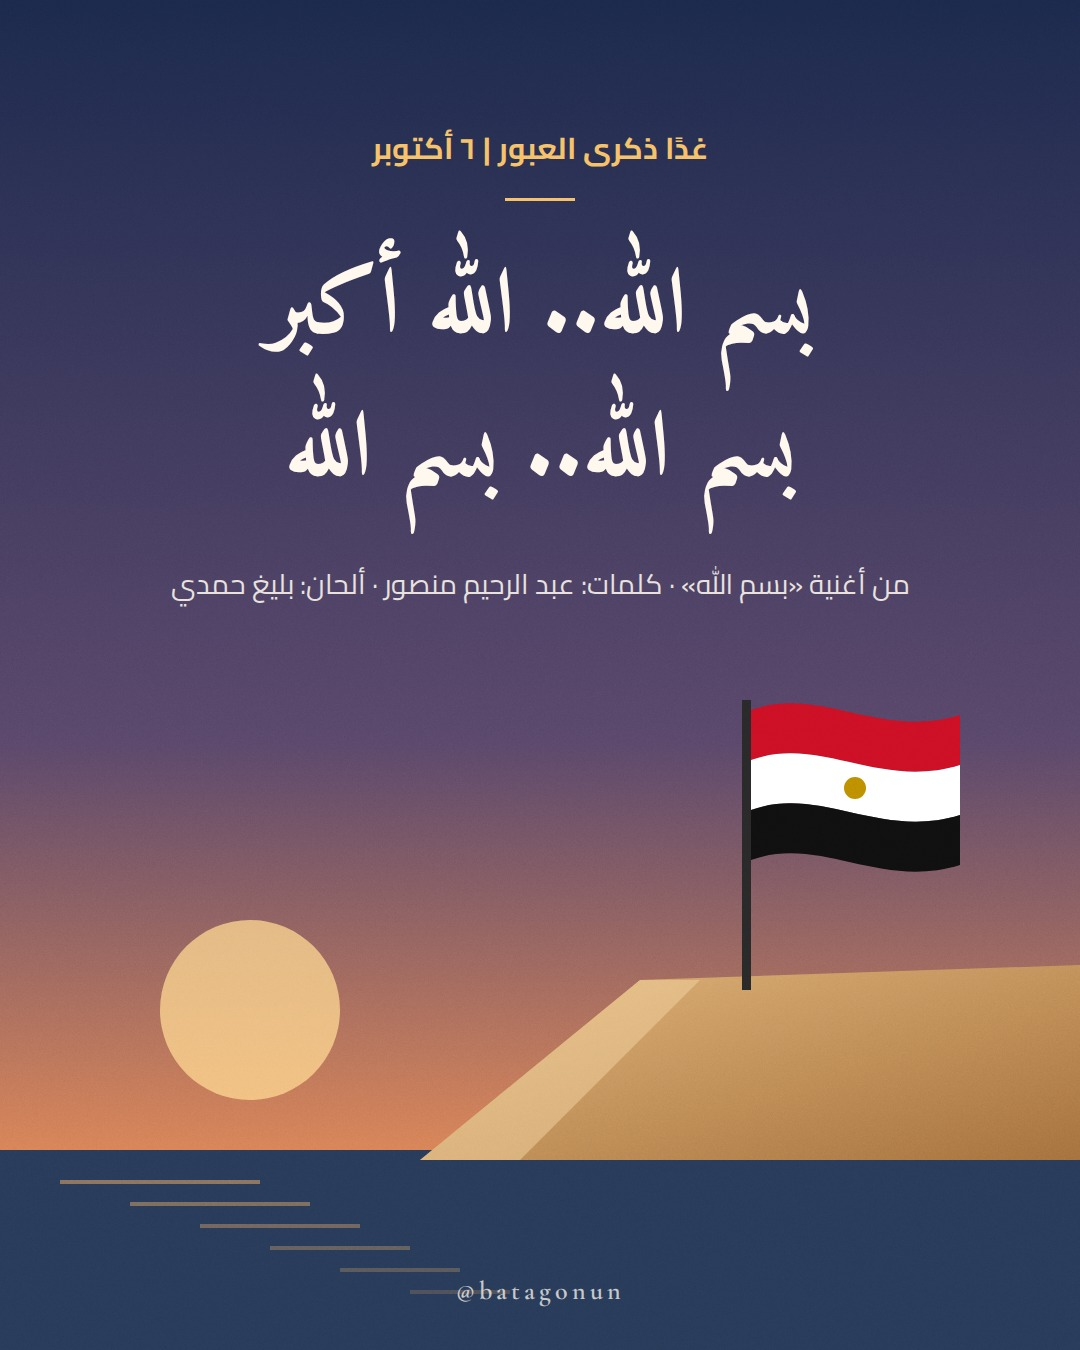
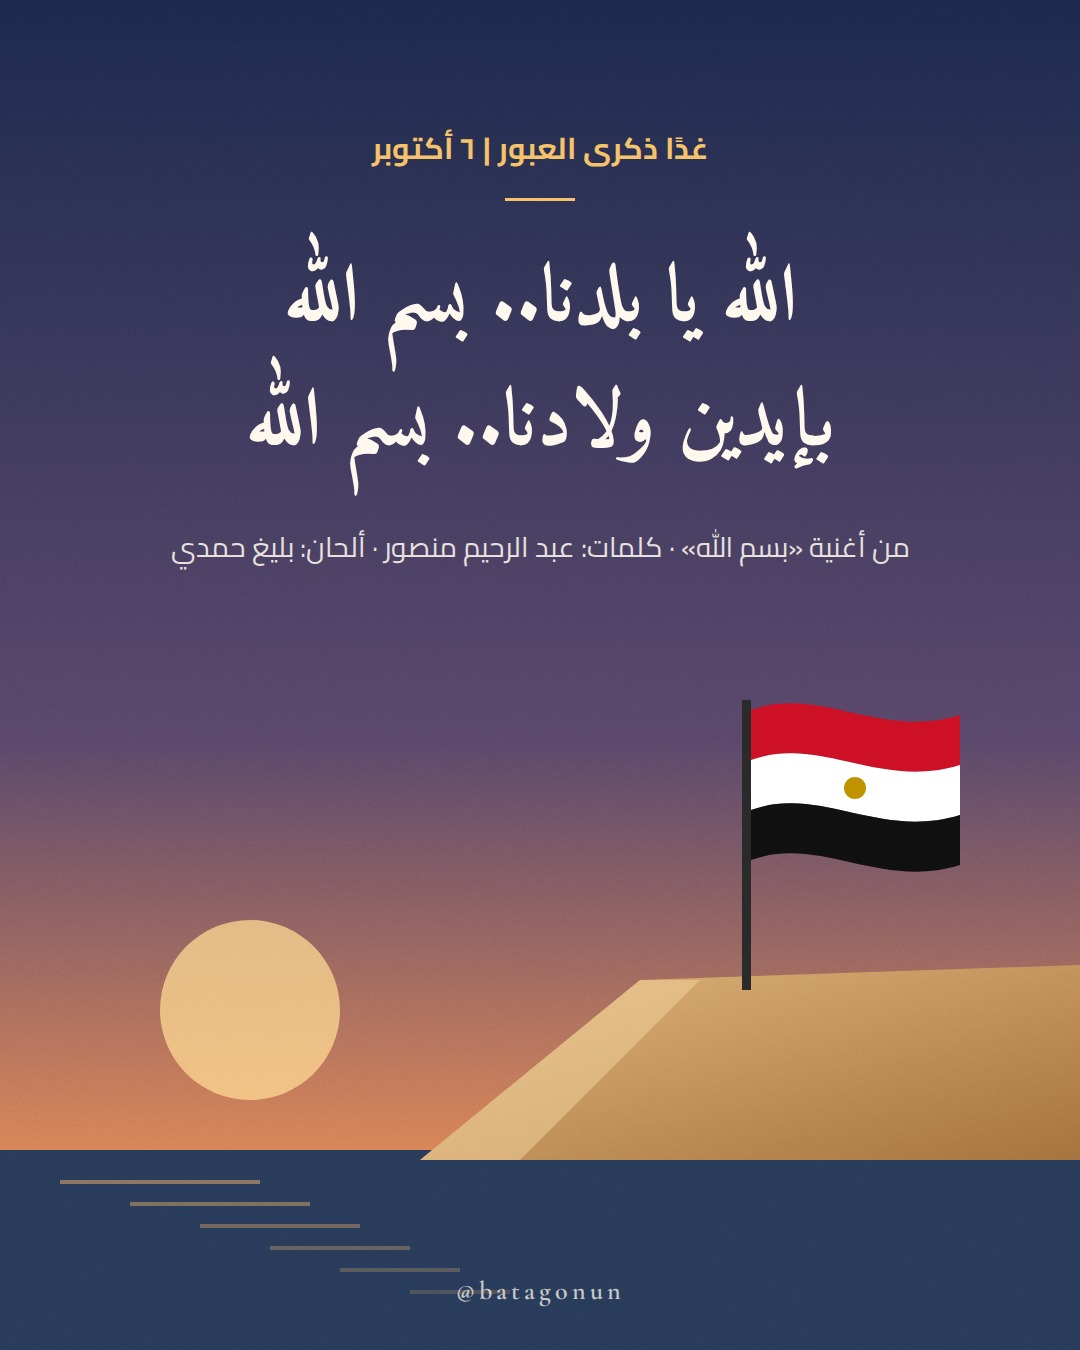
بوست 5 أكتوبر: مقطع آخر من أغنية «بسم الله»، وحذف كلمة «بالعربي» من كابشن البوستات الإنجليزية
Claude-Session: https://claude.ai/code/session_014DGXiXjySD2k7u4dBqwjVk

Changed region(s): [[0.1528, 0.1556, 0.8556, 0.4667], [0.6417, 0.1867, 0.7639, 0.28]]

diff --git a/instagram-agent/README.md b/instagram-agent/README.md
@@ -25,7 +25,7 @@
 
 ## 4. معايير الجودة
 1. **السند والقائل إلزاميان:** كل قول مأثور أو بيت شعر أو آية أو أغنية يُذكر معه قائله ومصدره (الكتاب أو الديوان أو السورة ورقم الآية أو الخطاب وتاريخه) **على الصورة وفي الكابشن معًا**. ولا يُنشر قول منسوب خطأً، مثل الأقوال الشائعة المنسوبة إلى جلال الدين الرومي أو أرسطو دون مصدر.
-2. **البوست الإنجليزي:** يُوضع تحت القول **سطر عربي يشرح معناه** على الصورة، وفقرة «🔸 بالعربي» في الكابشن.
+2. **البوست الإنجليزي:** يُوضع تحت القول **سطر عربي يشرح معناه** على الصورة، وفقرة عربية تبدأ بـ «🔸» في الكابشن (دون كلمة «بالعربي»).
 3. **التفاعل:** كل كابشن ينتهي بسؤال أو دعوة إلى الحفظ أو المشاركة، مع 4 هاشتاجات كحد أقصى.
 4. **الصور:** مقاس 1080×1350 (4:5)، وتصميم معبّر عن الفكرة لا مجرد نص على خلفية، مع هوية بصرية متسقة وتوقيع `@batagonun`.
 5. **الحساسية:** مراعاة الأعراف الدينية والاجتماعية المصرية، وتجنّب السياسة والجدل.
